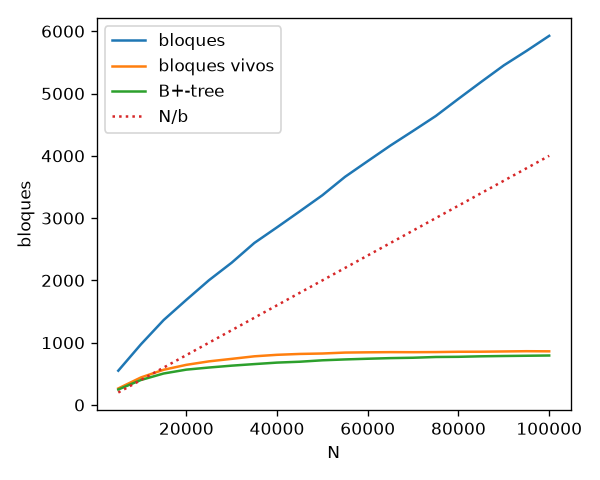
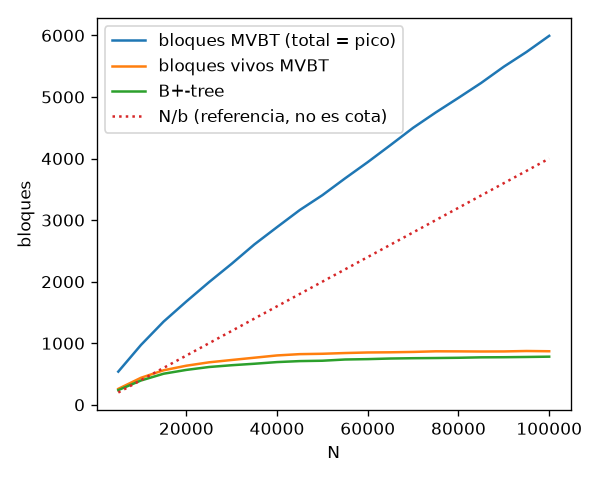
feat: experimentos de epsilon y de rango en versiones pasadas, resultados regenerados

diff --git a/proyecto2/mvbt/bench.cpp b/proyecto2/mvbt/bench.cpp
@@ -1,4 +1,5 @@
 #include <algorithm>
+#include <cassert>
 #include <cstdio>
 #include <random>
 #include <vector>
@@ -89,6 +90,7 @@ int log_ceil(int m, int d) {
 
 // Costo de busqueda y actualizacion con N creciente y m fijo
 void exp_costos() {
+    rng.seed(1);
     FILE* f = fopen("results/costos.csv", "w");
     fprintf(f, "N,m,busq_prom,busq_max,busq_vieja_prom,act_prom,act_max,cota_busq,cota_act\n");
     for (int m : {1000, 10000}) {
@@ -128,38 +130,96 @@ void exp_costos() {
     fclose(f);
 }
 
-// E/S de consultas por rango en un arbol de 100000 claves
 void exp_rango() {
+    rng.seed(2);
     FILE* f = fopen("results/rango.csv", "w");
-    fprintf(f, "r,io_prom,cota\n");
-    int m = 100000;
-    Corrida c(25, 5, 4);
-    vector<int> ks(m);
-    for (int i = 0; i < m; i++) ks[i] = i;
-    shuffle(ks.begin(), ks.end(), rng);
-    for (int k : ks) c.ins(k);
-    for (int r : {10, 100, 1000, 10000}) {
-        Acum a;
-        for (int i = 0; i < 200; i++) {
-            int lo = rng() % (m - r);
-            auto res = c.t.range(lo, lo + r - 1, c.t.now);
-            assert((int)res.size() == r);
-            a.add(c.t.disk.cost());
+    fprintf(f, "b,d,ancho,r_prom,mvbt_actual,mvbt_pasada,bptree,cota\n");
+    int m = 100000, universe = 2 * m;
+    for (int b : {25, 100}) {
+        int d = b / 5, ed = d - 1;
+        Corrida c(b, d, ed);
+        vector<int> keys;
+        auto insert_new_key = [&]() {
+            while (true) {
+                int k = rng() % universe;
+                if (c.ins(k)) {
+                    keys.push_back(k);
+                    return;
+                }
+            }
+        };
+        for (int i = 0; i < m; i++) insert_new_key();
+        int first_full_version = c.t.now;
+        for (int i = 0; i < m / 2; i++) {
+            int position = rng() % keys.size();
+            c.del(keys[position]);
+            keys[position] = keys.back();
+            keys.pop_back();
+            insert_new_key();
         }
-        fprintf(f, "%d,%.2f,%.2f\n", r, a.prom(), log_ceil(m, 5) + r / 5.0);
+        for (int width : {20, 200, 2000, 20000}) {
+            Acum current, past, single_version;
+            long long results = 0;
+            int queries = 200;
+            for (int i = 0; i < queries; i++) {
+                int lo = rng() % (universe - width), hi = lo + width - 1;
+                auto found = c.t.range(lo, hi, c.t.now);
+                current.add(c.t.disk.cost());
+                results += found.size();
+                auto found_single = c.bp.range(lo, hi);
+                single_version.add(c.bp.disk.cost());
+                assert(found == found_single);
+                int version = first_full_version + rng() % (c.t.now - first_full_version + 1);
+                c.t.range(lo, hi, version);
+                past.add(c.t.disk.cost());
+            }
+            double mean_results = (double)results / queries;
+            fprintf(f, "%d,%d,%d,%.1f,%.2f,%.2f,%.2f,%.2f\n", b, d, width, mean_results, current.prom(), past.prom(),
+                    single_version.prom(), log_ceil(m, d) + mean_results / d);
+        }
+    }
+    fclose(f);
+}
+
+void exp_epsilon() {
+    rng.seed(5);
+    FILE* f = fopen("results/epsilon.csv", "w");
+    fprintf(f, "b,d,ed,k,epsilon,carga,redundancia,cota_redundancia,bloques_por_N_b,altura,busq_prom,act_prom,act_max\n");
+    int n = 100000, b = 25;
+    const char* workloads[2] = {"insercion_aleatoria", "mixta"};
+    for (int d : {3, 4, 5, 6, 8}) {
+        for (int ed = 1; ed <= d - 1 && 2 * d + 3 * ed - 1 <= b; ed++) {
+            for (int j = 0; j < 2; j++) {
+                Corrida c(b, d, ed);
+                if (j == 0) {
+                    vector<int> keys(n);
+                    for (int i = 0; i < n; i++) keys[i] = i;
+                    shuffle(keys.begin(), keys.end(), rng);
+                    for (int k : keys) c.ins(k);
+                } else {
+                    while (c.t.now < n) c.paso_mixto(20000);
+                }
+                Stats stats = c.t.stats();
+                Acum searches = c.busquedas(1000, j == 0 ? n : 20000, false);
+                fprintf(f, "%d,%d,%d,%.2f,%.2f,%s,%.3f,%.2f,%.3f,%d,%.2f,%.2f,%d\n", b, d, ed, (double)b / d, (double)ed / d,
+                        workloads[j], (double)stats.leaf_entries / c.inserts, 2.0 * b / ed,
+                        (double)stats.blocks / ((double)n / b), stats.height, searches.prom(), c.act.prom(), c.act.mx);
+            }
+        }
     }
     fclose(f);
 }
 
 // Uso de disco con carga mixta de 100000 actualizaciones
 void exp_espacio() {
+    rng.seed(3);
     FILE* f = fopen("results/espacio.csv", "w");
-    fprintf(f, "N,bloques,bloques_vivos,cota_N_b,raices,redundancia,bloques_bptree\n");
+    fprintf(f, "N,bloques,bloques_vivos,referencia_N_b,bloques_por_N_b,raices,redundancia,bloques_bptree\n");
     Corrida c(25, 5, 4);
     for (int n = 5000; n <= 100000; n += 5000) {
         while (c.t.now < n) c.paso_mixto(20000);
         Stats s = c.t.stats();
-        fprintf(f, "%d,%d,%d,%.2f,%d,%.3f,%d\n", n, s.blocks, s.live_blocks, n / 25.0, s.roots,
+        fprintf(f, "%d,%d,%d,%.2f,%.3f,%d,%.3f,%d\n", n, s.blocks, s.live_blocks, n / 25.0, s.blocks / (n / 25.0), s.roots,
                 (double)s.leaf_entries / c.inserts, c.bp.blocks());
     }
     fclose(f);
@@ -168,6 +228,7 @@ void exp_espacio() {
 // Redundancia, espacio y costos segun b y tipo de carga (N = 100000 actualizaciones); las cargas aleatoria
 // y mixta tambien comparan con el B+-tree en bptree.csv
 void exp_parametros() {
+    rng.seed(4);
     FILE* f = fopen("results/parametros.csv", "w");
     FILE* g = fopen("results/bptree.csv", "w");
     fprintf(f, "b,d,ed,carga,redundancia,bloques_por_N_b,busq_prom,act_prom\n");
@@ -213,4 +274,6 @@ int main() {
     printf("results/espacio.csv\n");
     exp_parametros();
     printf("results/parametros.csv\nresults/bptree.csv\n");
+    exp_epsilon();
+    printf("results/epsilon.csv\n");
 }

diff --git a/proyecto2/mvbt/plots.py b/proyecto2/mvbt/plots.py
@@ -36,16 +36,23 @@ fig.tight_layout()
 fig.savefig("results/costos.png", dpi=120)
 plt.close(fig)
 
-# rango.csv: E/S vs r
+# rango.csv: E/S vs r para cada b, en la version actual, en versiones pasadas y en el B+-tree
 filas = leer("rango")
-fig, ax = plt.subplots(figsize=(5, 4))
-ax.plot(col(filas, "r"), col(filas, "io_prom"), marker="o", label="E/S promedio")
-ax.plot(col(filas, "r"), col(filas, "cota"), linestyle=":", label="log_d m + r/d")
-ax.set_xscale("log")
-ax.set_yscale("log")
-ax.set_xlabel("r")
-ax.set_ylabel("bloques por consulta")
-ax.legend()
+valores_b = sorted({x["b"] for x in filas}, key=int)
+fig, ax = plt.subplots(1, len(valores_b), figsize=(5 * len(valores_b), 4))
+for eje, valor_b in zip(ax, valores_b):
+    f = [x for x in filas if x["b"] == valor_b]
+    r = col(f, "r_prom")
+    eje.plot(r, col(f, "mvbt_actual"), marker="o", label="MVBT version actual")
+    eje.plot(r, col(f, "mvbt_pasada"), marker="s", linestyle="--", label="MVBT versiones pasadas")
+    eje.plot(r, col(f, "bptree"), marker="^", label="B+-tree")
+    eje.plot(r, col(f, "cota"), linestyle=":", color="gray", label="log_d m + r/d")
+    eje.set_xscale("log")
+    eje.set_yscale("log")
+    eje.set_xlabel("r (resultados)")
+    eje.set_ylabel("bloques por consulta")
+    eje.set_title("b = " + valor_b + ", d = " + f[0]["d"])
+    eje.legend(fontsize=8)
 fig.tight_layout()
 fig.savefig("results/rango.png", dpi=120)
 plt.close(fig)
@@ -54,10 +61,10 @@ plt.close(fig)
 filas = leer("espacio")
 n = col(filas, "N")
 fig, ax = plt.subplots(figsize=(5, 4))
-ax.plot(n, col(filas, "bloques"), label="bloques")
-ax.plot(n, col(filas, "bloques_vivos"), label="bloques vivos")
+ax.plot(n, col(filas, "bloques"), label="bloques MVBT (total = pico)")
+ax.plot(n, col(filas, "bloques_vivos"), label="bloques vivos MVBT")
 ax.plot(n, col(filas, "bloques_bptree"), label="B+-tree")
-ax.plot(n, col(filas, "cota_N_b"), linestyle=":", label="N/b")
+ax.plot(n, col(filas, "referencia_N_b"), linestyle=":", label="N/b (referencia, no es cota)")
 ax.set_xlabel("N")
 ax.set_ylabel("bloques")
 ax.legend()
@@ -103,4 +110,21 @@ ax[2].set_yscale("log")
 ax[0].legend(fontsize=7)
 fig.tight_layout()
 fig.savefig("results/bptree.png", dpi=120)
+plt.close(fig)
+
+# epsilon.csv: redundancia y bloques por N/b contra epsilon, una linea por d (b = 25)
+filas = leer("epsilon")
+valores_d = sorted({int(x["d"]) for x in filas})
+fig, ax = plt.subplots(1, 2, figsize=(10, 4))
+for eje, carga in zip(ax, ("insercion_aleatoria", "mixta")):
+    for d in valores_d:
+        f = [x for x in filas if int(x["d"]) == d and x["carga"] == carga]
+        eje.plot(col(f, "epsilon"), col(f, "redundancia"), marker="o", label="d = " + str(d))
+    eje.set_xlabel("epsilon")
+    eje.set_ylabel("redundancia")
+    eje.set_title(carga + " (b = 25)")
+    eje.set_ylim(bottom=0)
+    eje.legend(fontsize=8, loc="lower right")
+fig.tight_layout()
+fig.savefig("results/epsilon.png", dpi=120)
 plt.close(fig)
